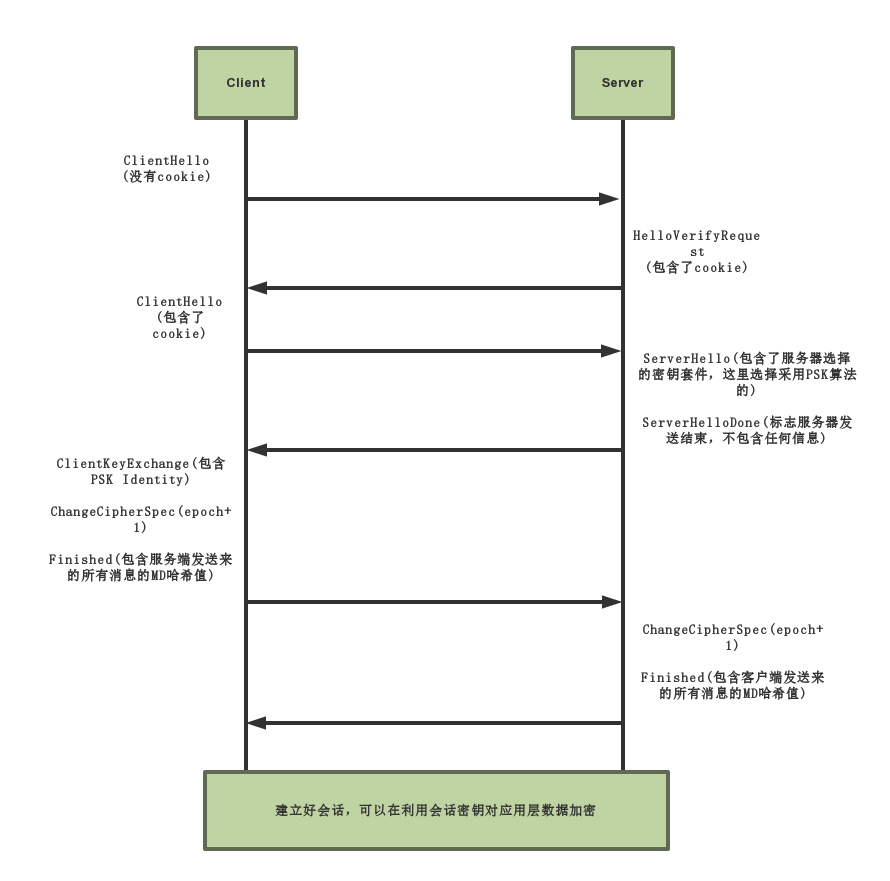
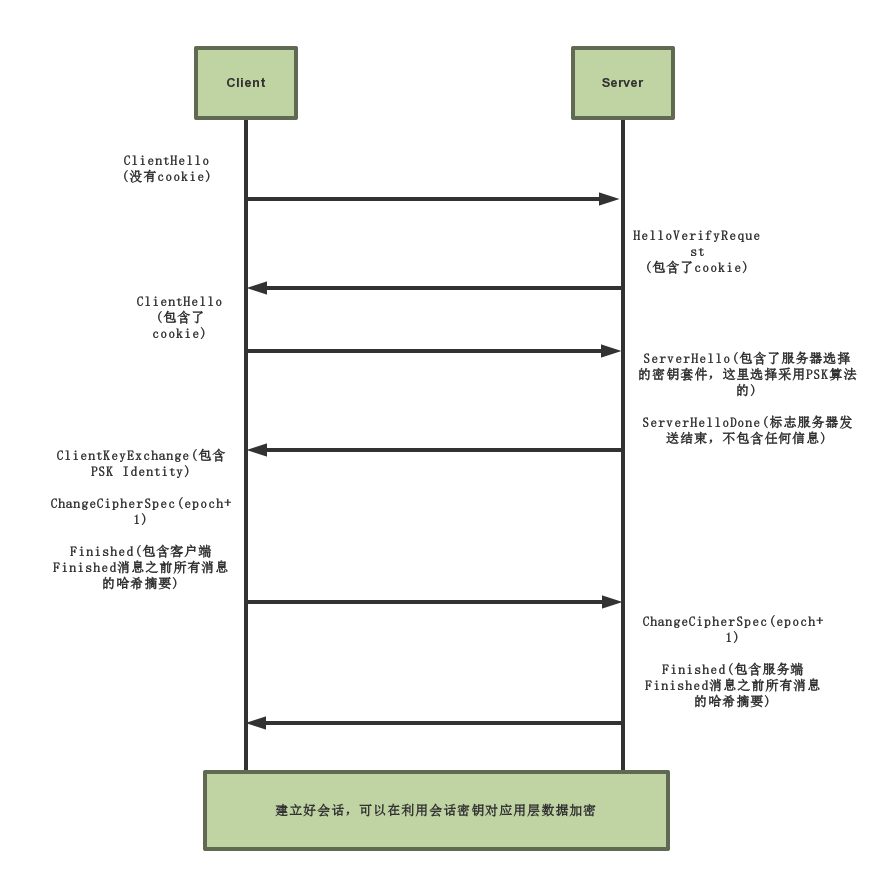
MOD:修改TestData内容

Changed region(s): [[0.0607, 0.4904, 0.273, 0.6742], [0.7281, 0.7049, 0.9404, 0.8275]]

diff --git a/scandium-core/src/main/java/org/eclipse/californium/scandium/dtls/ServerHandshaker.java b/scandium-core/src/main/java/org/eclipse/californium/scandium/dtls/ServerHandshaker.java
@@ -300,6 +300,7 @@ public class ServerHandshaker extends Handshaker {
 
 		// Verify client's data
 		byte[] handshakeHash = md.digest();
+		// 对于ClientFinish之前所有的消息进行哈希，然后进行完整性验证
 		message.verifyData(getMasterSecret(), true, handshakeHash);
 
 		/*
@@ -310,7 +311,7 @@ public class ServerHandshaker extends Handshaker {
 		setCurrentWriteState();
 
 		/*
-		 * Second, send Finished message
+		 * Second, send Finished message，将客户度的Finish消息加入哈希
 		 */
 		handshakeHash = mdWithClientFinished.digest();
 		Finished finished = new Finished(getMasterSecret(), isClient, handshakeHash, session.getPeer());

diff --git a/TestData.md b/TestData.md
@@ -8,6 +8,10 @@
     - dtls：560 KB
     - DTLSConnector：76 KB
     
+- 交互报文
+    ![DTLS](DTLS.PNG)
+    消息报文数量：10~15个
+    
 ### 只使用PSK的Scandium项目
 - 代码规模
     - 总体：690 KB
@@ -20,3 +24,6 @@
 
     ![DTLS-PSK](DTLS-PSK.png)
     消息报文数量：10个
+    
+    采用的哈希摘要算法是SHA-256
+    
